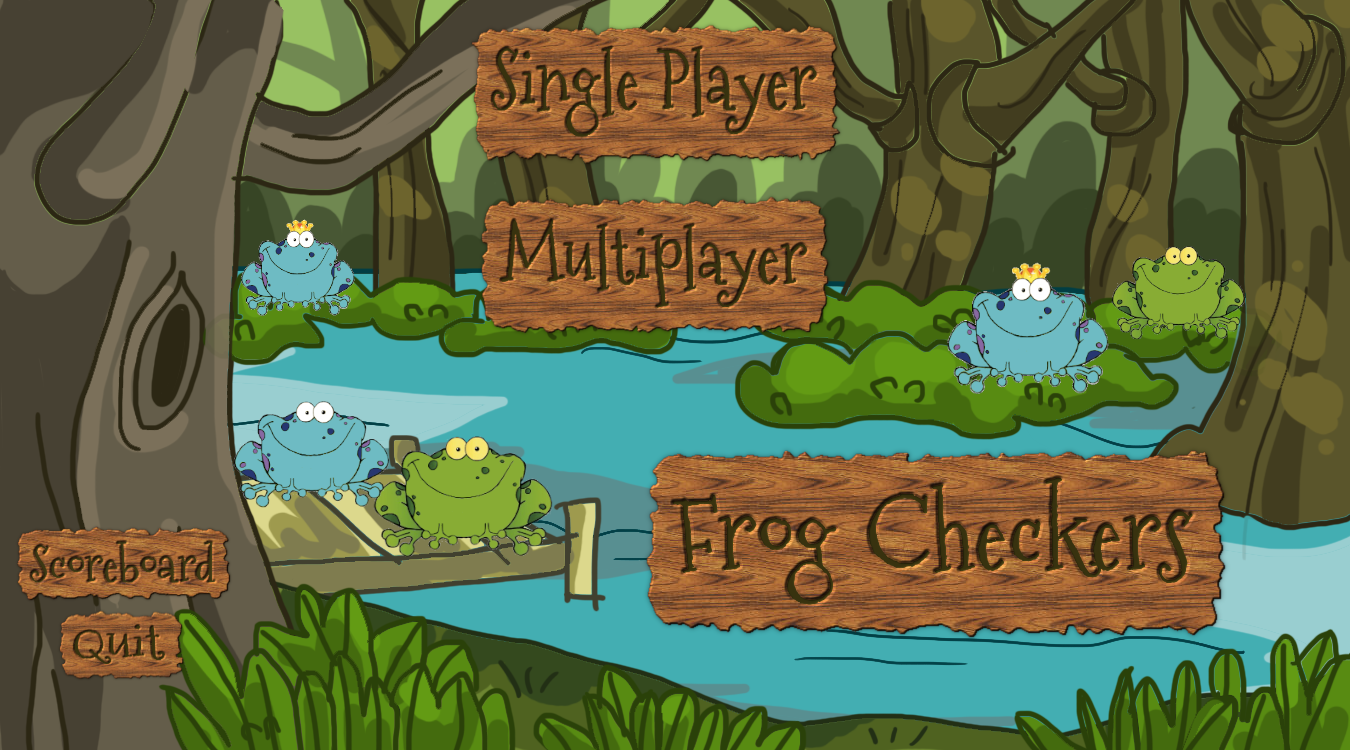
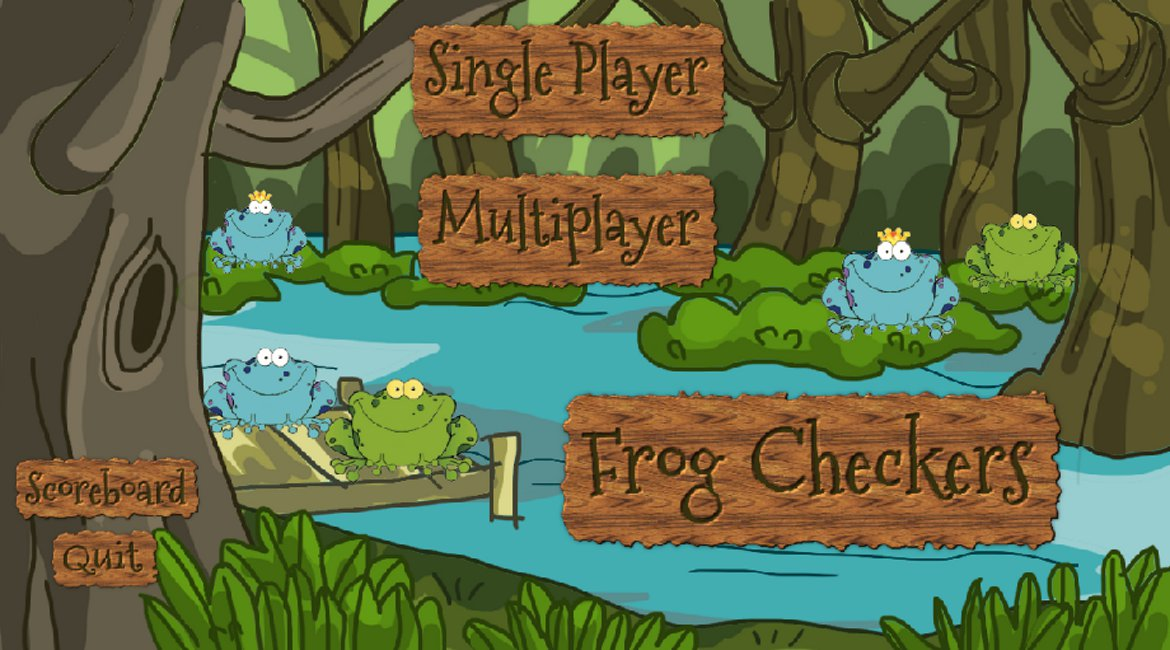
Did some changes to sizing of the images, also designed the skeleton of the main menu.

diff --git a/mainFrame/GUI/MainFrame.java b/mainFrame/GUI/MainFrame.java
@@ -1,27 +1,90 @@
 package GUI;
 
+import java.awt.Dimension;
+import java.awt.Toolkit;
+import java.awt.event.ActionEvent;
+
+import javax.swing.ImageIcon;
 import javax.swing.JButton;
 import javax.swing.JFrame;
+import javax.swing.JLabel;
 import javax.swing.JPanel;
-
+/**
+ * 
+ * @author Daniel
+ * 
+ * This class is a container class that upon launch will always open the main menu.
+ *
+ */
 public class MainFrame {
 
 	private PanelListener panelListener;
 	private JFrame mainContainer = new JFrame("Checkers");
 	private JPanel mainMenu = new JPanel();
 	private JButton btnSinglePlayer, btnMultiPlayer, btnScoreBoard, btnQuit;
+
 	public void start() {
-		
+		mainContainer(mainMenu());
 	}
-	
+
 	private JFrame mainContainer(JPanel frame) {
+		mainContainer.setDefaultCloseOperation(JFrame.EXIT_ON_CLOSE);
+		mainContainer.setSize(1170, 650);
+		mainContainer.setVisible(true);
+		Dimension dim = Toolkit.getDefaultToolkit().getScreenSize();
+		mainContainer.setLocation(dim.width / 2 - mainContainer.getSize().width
+				/ 2, dim.height / 2 - mainContainer.getSize().height / 2);
+		mainContainer.setResizable(false);
+
+		mainContainer.add(frame);
+
 		return mainContainer;
 	}
-	
+
 	private JPanel mainMenu() {
+		mainMenu.setLayout(null);
+		ImagePanel background = new ImagePanel(new ImageIcon("GUIImages\\MainMenuBackground.png").getImage());
+		
+		ImageIcon singlePlayerButton = new ImageIcon("GUIImages\\singlePlayerButton.png");
+		btnSinglePlayer = new JButton(singlePlayerButton);
+		btnSinglePlayer.setOpaque(false);
+		btnSinglePlayer.setContentAreaFilled(false);
+		btnSinglePlayer.setBorderPainted(false);
+		btnSinglePlayer.setBounds(410, 25, 298, 105);
+		mainMenu.add(btnSinglePlayer);
+		
+		ImageIcon multiPlayerButton = new ImageIcon("GUIImages\\multiPlayerButton.png");
+		btnMultiPlayer = new JButton(multiPlayerButton);
+		btnMultiPlayer.setOpaque(false);
+		btnMultiPlayer.setContentAreaFilled(false);
+		btnMultiPlayer.setBorderPainted(false);
+		btnMultiPlayer.setBounds(420, 170, 298, 105);
+		mainMenu.add(btnMultiPlayer);
+
+		ImageIcon scoreBoardButton = new ImageIcon("GUIImages\\scoreBoardButton.png");
+		btnScoreBoard = new JButton(scoreBoardButton);
+		btnScoreBoard.setOpaque(false);
+		btnScoreBoard.setContentAreaFilled(false);
+		btnScoreBoard.setBorderPainted(false);
+		btnScoreBoard.setBounds(17, 460, 180, 58);
+		mainMenu.add(btnScoreBoard);
+
+		ImageIcon quitButton = new ImageIcon("GUIImages\\quitButton.png");
+		btnQuit = new JButton(quitButton);
+		btnQuit.setOpaque(false);
+		btnQuit.setContentAreaFilled(false);
+		btnQuit.setBorderPainted(false);
+		btnQuit.setBounds(50, 530, 95, 58);
+		mainMenu.add(btnQuit);
+		
+		
+		mainMenu.add(background);
+
 		return mainMenu;
 	}
+
 	public void SwitchFrames(PanelListener panelListener) {
 		this.panelListener = panelListener;
 	}
+
 }

diff --git a/mainFrame/mainFrameLauncher/MainFrameLauncher.java b/mainFrame/mainFrameLauncher/MainFrameLauncher.java
@@ -15,17 +15,17 @@ public class MainFrameLauncher {
 		SwingUtilities.invokeLater(new Runnable() {
 			@Override
 			public void run() {
-				runGUI();
+				runGUI(); // Runs the GUI
 			}
 
 		});
 	}
 
 	public static void runGUI() {
-		MainFrame frame = new MainFrame();
-		FrameSwitcher controller = new FrameSwitcher(frame);
-		frame.start();
-		frame.SwitchFrames(controller);
+		MainFrame frame = new MainFrame(); // Create an instance of the MainFrame
+		FrameSwitcher controller = new FrameSwitcher(frame); // Create an instance of the FrameSwitcher
+		frame.start(); // Start the frame
+		frame.SwitchFrames(controller); // Set the controller
 	}
 
 }
